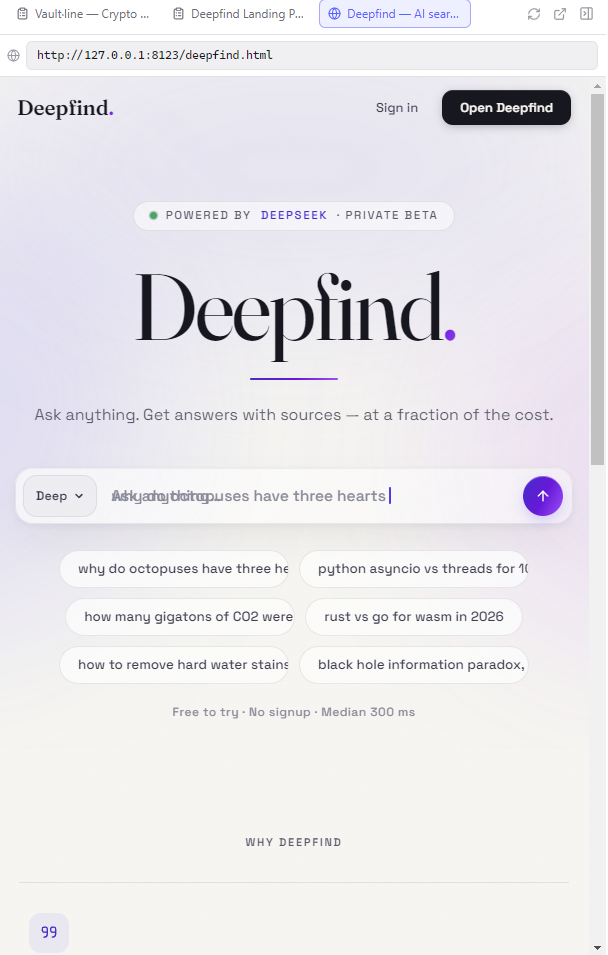
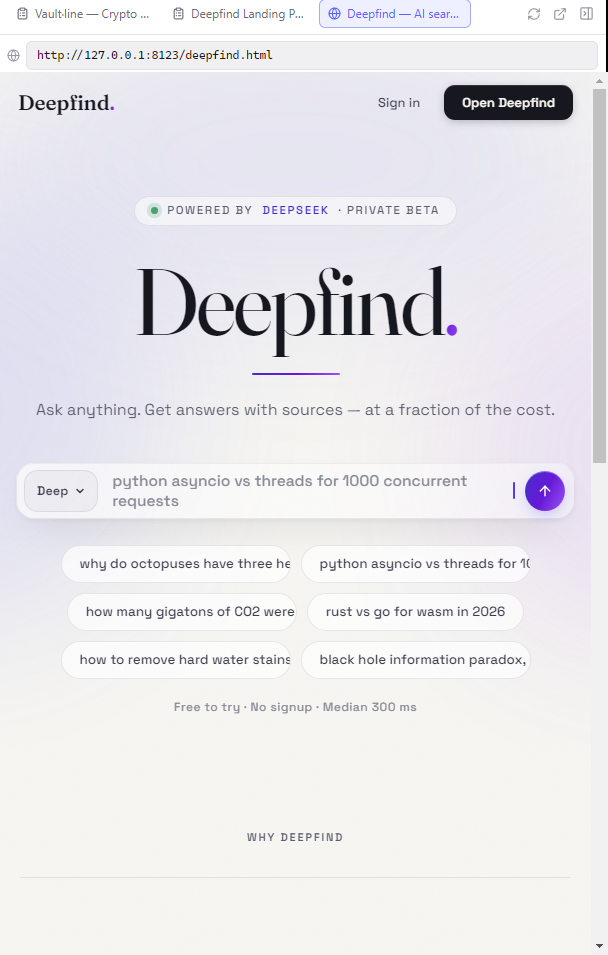
docs: animated Earth GIFs, cost-based per-task chart, layout polish
- Replace both satellite-tracker stills in the SuperCode-vs-solo table
  with rotating-Earth GIFs captured from the live apps
- Add SuperCode row to the permission-modes table
- Regenerate per-task benchmark chart with bars scaled by cost
  (time moves to the secondary label)
- Normalize In-action image sizes so rows are height-matched
- Recapture Deepfind panel after fixing the stacked placeholder hint;
  recrop thinking-effort shot to show the popover in context

diff --git a/README.md b/README.md
@@ -60,9 +60,9 @@ Three ideas drive it:
 
 | One prompt → a shipped landing page, verified in-app | The interview — decisions stay yours, step by step |
 |---|---|
-| <img src="docs/screenshots/searchbuild.png" alt="Deepfind, an AI search engine landing page a SuperCode fleet designed, built and smoke-tested, rendered live in the side panel"> | <img src="docs/screenshots/interview.png" alt="After the recon fleet finishes, the agent asks scoped questions with rich options before writing any plan"> |
+| <img src="docs/screenshots/searchbuild.png" width="330" alt="Deepfind, an AI search engine landing page a SuperCode fleet designed, built and smoke-tested, rendered live in the side panel"> | <img src="docs/screenshots/interview.png" width="570" alt="After the recon fleet finishes, the agent asks scoped questions with rich options before writing any plan"> |
 | **Browser use — searches Google, reads the results back** | **Thinking effort — click the level, drag the slider** |
-| <img src="docs/screenshots/browser-use.png" alt="Agent searches Google for DeepSeek V4 benchmark and lists the result titles"> | <img src="docs/screenshots/effort.png" alt="Thinking-effort slider with seven levels from Off to Max"> |
+| <img src="docs/screenshots/browser-use.png" width="560" alt="Agent searches Google for DeepSeek V4 benchmark and lists the result titles"> | <img src="docs/screenshots/effort.png" width="560" alt="Thinking-effort popover open above the composer, seven levels from Off to Max"> |
 
 ## 🚀 Quick start
 
@@ -106,6 +106,7 @@ Every write or command is gated by a **permission card** unless you switch modes
 | **Auto-edit** | Auto-approve file edits, still ask for shell |
 | **Plan** | Read-only — the agent plans without changing anything |
 | **Auto** | Approve everything (a warning banner stays on) |
+| **SuperCode** | The orchestration mode picks for you: strongest model + max reasoning + plan mode for recon and interview, then Auto the moment you accept the plan |
 
 ## 📊 Measured against Codex and Claude Code
 
@@ -259,7 +260,7 @@ difference was how they got there:
 
 | | 🚀 **SuperCode (Deep budget)** | 🧑🚀 **Solo agent** |
 |---|---|---|
-| Result | <img src="docs/screenshots/hero.png" alt="SuperCode fleet's tracker: 10,961 satellites with an ISS telemetry panel, source-freshness chips and altitude histogram" width="420"> | <img src="docs/screenshots/orbital-b.png" alt="Solo agent's tracker: 16,084 satellites color-coded by category with orbit-regime filters" width="420"> |
+| Result | <img src="docs/screenshots/orbital-a.gif" alt="SuperCode fleet's tracker: 10,961 satellites orbiting a rotating 3D Earth with an ISS telemetry panel" width="420"> | <img src="docs/screenshots/orbital-b.gif" alt="Solo agent's tracker: 16,084 satellites color-coded by category orbiting a rotating Earth" width="420"> |
 | Active working time | **64 min** | 93 min |
 | Tool calls / file writes | 348 / 96 | 294 / 74 |
 | Satellites rendered | 10,961 (curated groups) | 16,084 (full catalog) |
